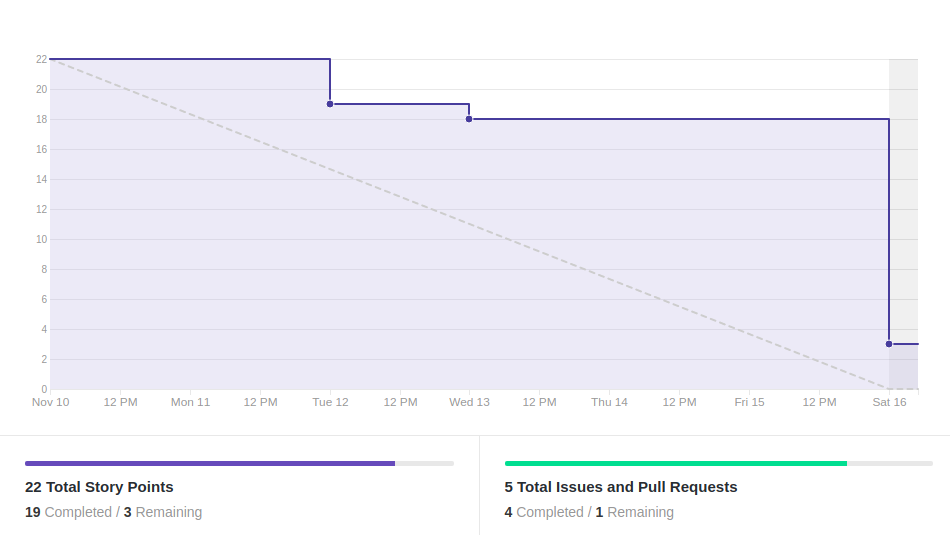
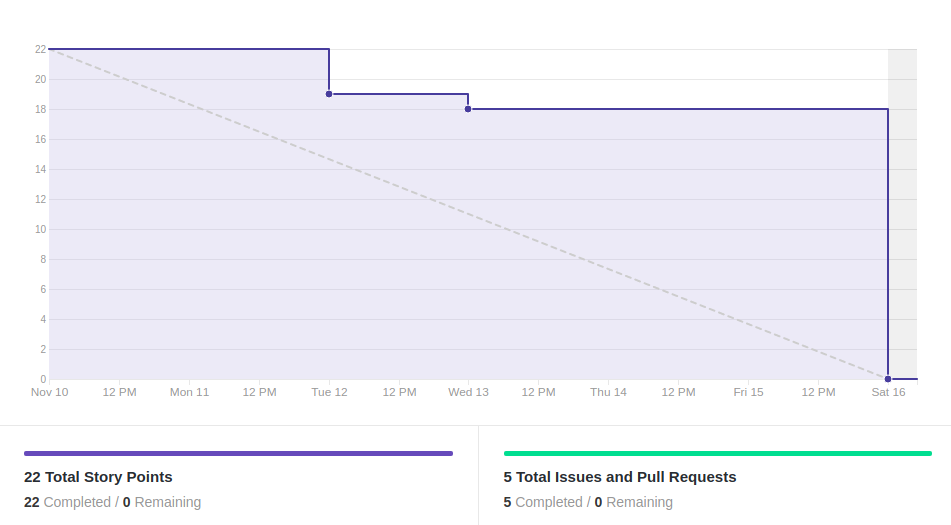
Modifying planning os sprints

diff --git a/sprints/sprint12/planejamento.md b/sprints/sprint12/planejamento.md
@@ -1,9 +1,9 @@
-# Planejamento SPRINT 9
+# Planejamento SPRINT 12
 
 **Data de início**: 17/11/2019 <br/>
 **Data de fim**: 23/11/2019 <br/>
 **Duração**: 7 dias <br/>
-**Pontuação**: 19 pontos 
+**Pontuação**: 21 pontos 
 
 ## 1. Objetivo
 
@@ -23,12 +23,13 @@ Fazer funcionalidades priorizadas pela product owner em conjunto com o a scrum m
 ### Overview
 | Atividade | Pontuação | Responsável | Dívida |
 | - | - | - | - |
-| TS14 - Restringir a função de cancelar Overdraft | 1| Erick e Luiza | Não |
-| Traduzir e arrumar todos os textos | 3 | Erick e Luiza | Não |
-| Arrumar cash-in e cash-out | 2 | Erick e Luiza | Não |
-| Adicionar tela de descrição da funcionalidade "Atualizar Data" | 3 | João Gabriel e João Paulo | Não |
-| Modificar ícones, fontes e espaçamentos | 8 | Gabriel e Isabella | Não |
-| Remover "Consultar Dívida" | 2 | João Gabriel e João Paulo | Não |
+| [TS14 - Restringir a função de cancelar Overdraft](https://github.com/fga-eps-mds/2019.2-over26/issues/191) | 1| Erick e Luiza | Não |
+| [Traduzir e refatorar os textos apresentados no app](https://github.com/fga-eps-mds/2019.2-over26/issues/190) | 3 | Erick e Luiza | Não |
+| [Restringir caracteres das operações de entrada e saída de recursos](https://github.com/fga-eps-mds/2019.2-over26/issues/189)| 2 | Erick | Não |
+| [TS15 - Melhorar telas de Cash-In e Cash-Out](https://github.com/fga-eps-mds/2019.2-over26/issues/192) | 2 | Erick e Luiza | Não |
+| [Adicionar tela de descrição da funcionalidade "Atualizar Data"](https://github.com/fga-eps-mds/2019.2-over26/issues/193) | 3 | João Gabriel e João Paulo | Não |
+| [Modificar ícones, fontes e espaçamentos](https://github.com/fga-eps-mds/2019.2-over26/issues/187) | 8 | Gabriel e Isabella | Não |
+| [Remover "Consultar Dívida"](https://github.com/fga-eps-mds/2019.2-over26/issues/185) | 2 | João Gabriel e João Paulo | Não |
 
 ## 4. Pareamento
-<!-- ![](../../images/metrics_agile/pareamento_sprint10.png) -->
+![](../../images/metrics_agile/pareamento_sprint12.png)

diff --git a/sprints/sprint11/resultado.md b/sprints/sprint11/resultado.md
@@ -4,15 +4,14 @@
 
 ### 1.1 Fechamento da Sprint 
 
-**Pontos concluídos: 19 pontos**
+**Pontos concluídos: 22 pontos**
 <br/>
 **Pontos cancelados: 7 pontos**
 <br/>
-**Dívida Técnica: 3 pontos**
 
 | Atividade | Situação |
 | --------  | :----:   |
-| [TS11 - Mostrar valor da nova dívida quando for parcelar](https://github.com/fga-eps-mds/2019.2-over26/issues/169) | Dívida Técnica | 
+| [TS11 - Mostrar valor da nova dívida quando for parcelar](https://github.com/fga-eps-mds/2019.2-over26/issues/169) | Concluída | 
 | [TS12 - Restringir a funcionalidade de checar eligibilidade](https://github.com/fga-eps-mds/2019.2-over26/issues/170) | Concluída | 
 |  [TS13 - Implementação do suporte a multiusuário](https://github.com/fga-eps-mds/2019.2-Over26/issues/171) | Concluída | 
 | [US22 - Pagar Parcelas - Design](https://github.com/fga-eps-mds/2019.2-Over26/issues/155) | Concluída | 
@@ -28,7 +27,7 @@
 ![](../../images/metrics_agile/velocity_sprint11.png)
 
 ## 1.4 Burndown de Riscos 
-<!-- ![](../../images/metrics_agile/burndown_riscos_sprint9.png) -->
+![](../../images/metrics_agile/burndown_riscos_sprint11.png)
 
 ## 1.5 Retrospectiva
 | Membro | Pontos Positivos | Pontos Negativos | Sugestão de Melhoria | Pontuação das Histórias |

diff --git a/sprints/sprint10/resultado.md b/sprints/sprint10/resultado.md
@@ -19,6 +19,14 @@
 | [US08 - Acompanhar período de insenção de juros - Backend](https://github.com/fga-eps-mds/2019.2-Over26/issues/128) | Concluída | 
 |[Consertar controller checkAmount - Back](https://github.com/fga-eps-mds/2019.2-Over26/issues/161)|Concluída|
 
+## EPS
+
+| Atividade | Situação |
+| -------- | :----: |
+| Deploy do Backend | Concluída |
+| Testes Frontend | Concluída |
+| Qualidade de Código | Concluída |
+| Documentar Sprint 9 | Concluída |
 
 ## 1.2 Burndown
 ![](../../images/metrics_agile/burndown_sprint10.png)
@@ -27,7 +35,7 @@
 ![](../../images/metrics_agile/velocity_sprint10.png)
 
 ## 1.4 Burndown de Riscos 
-<!-- ![](../../images/metrics_agile/burndown_riscos_sprint9.png) -->
+![](../../images/metrics_agile/burndown_riscos_sprint10.png)
 
 ## 1.5 Retrospectiva
 | Membro | Pontos Positivos | Pontos Negativos | Sugestão de Melhoria | Pontuação das Histórias |

diff --git a/sprints/sprint11/planejamento.md b/sprints/sprint11/planejamento.md
@@ -1,4 +1,4 @@
-# Planejamento SPRINT 9
+# Planejamento SPRINT 11
 
 **Data de início**: 10/11/2019 <br/>
 **Data de fim**: 16/11/2019 <br/>
@@ -32,4 +32,4 @@ Fazer funcionalidades priorizadas pela product owner em conjunto com o a scrum m
 |[TS13 - Implementação do suporte a multiusuário- Back](https://github.com/fga-eps-mds/2019.2-Over26/issues/184)| 2 |Erick e João Gabriel | Não |
 
 ## 4. Pareamento
-<!-- ![](../../images/metrics_agile/pareamento_sprint10.png) -->
+![](../../images/metrics_agile/pareamento_sprint11.png)

diff --git a/sprints/sprint10/planejamento.md b/sprints/sprint10/planejamento.md
@@ -1,4 +1,4 @@
-# Planejamento SPRINT 9
+# Planejamento SPRINT 10
 
 **Data de início**: 03/11/2019 <br/>
 **Data de fim**: 09/11/2019 <br/>
